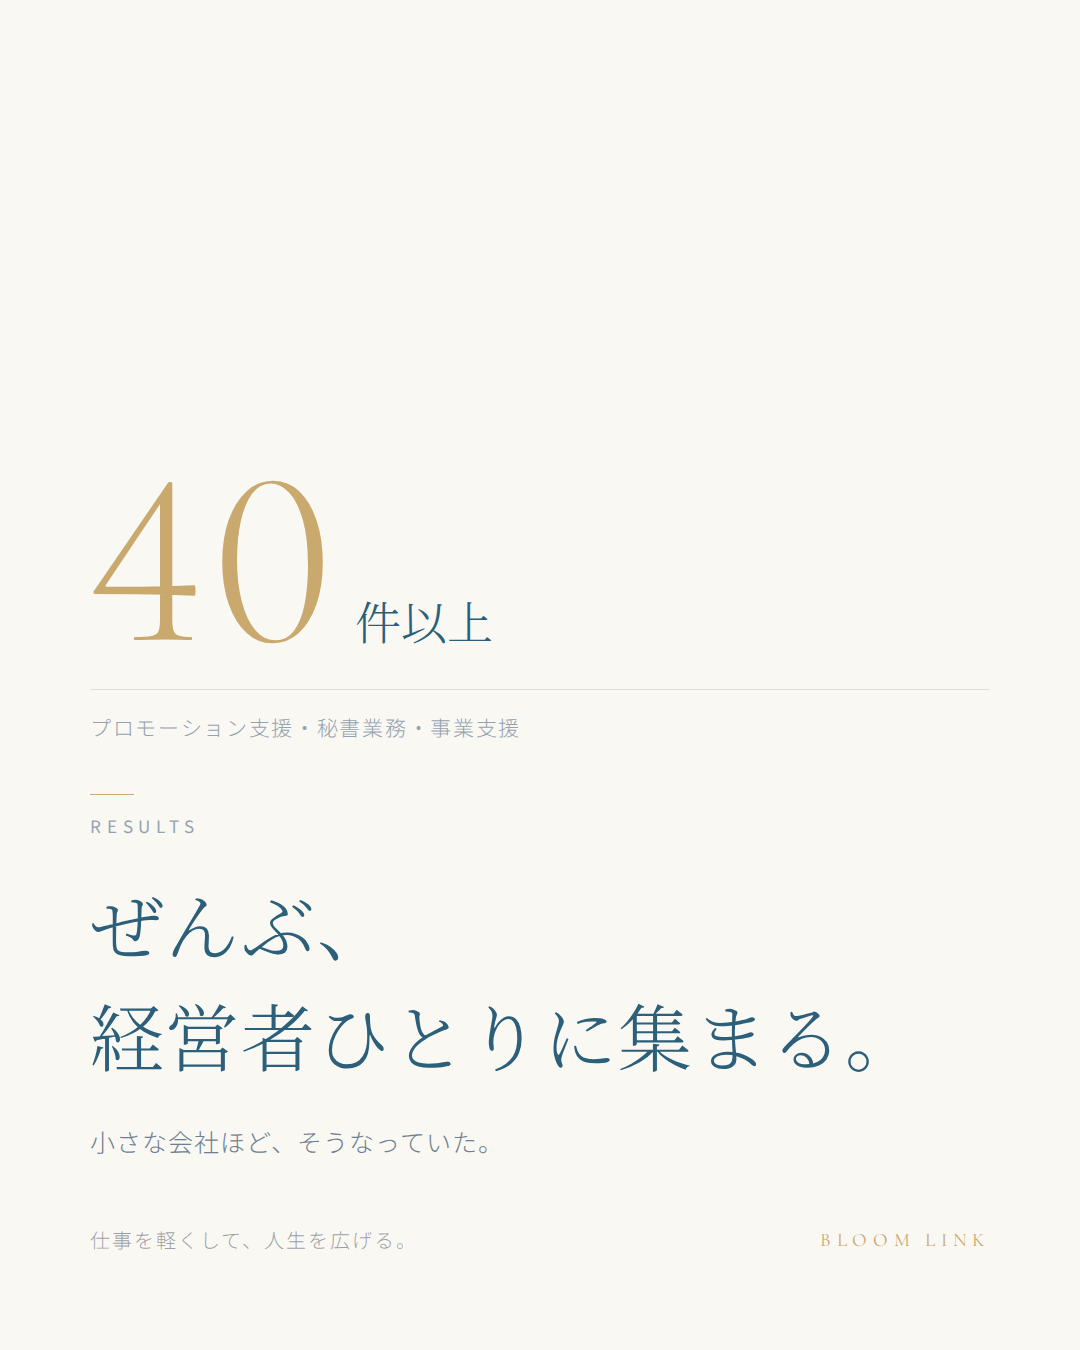
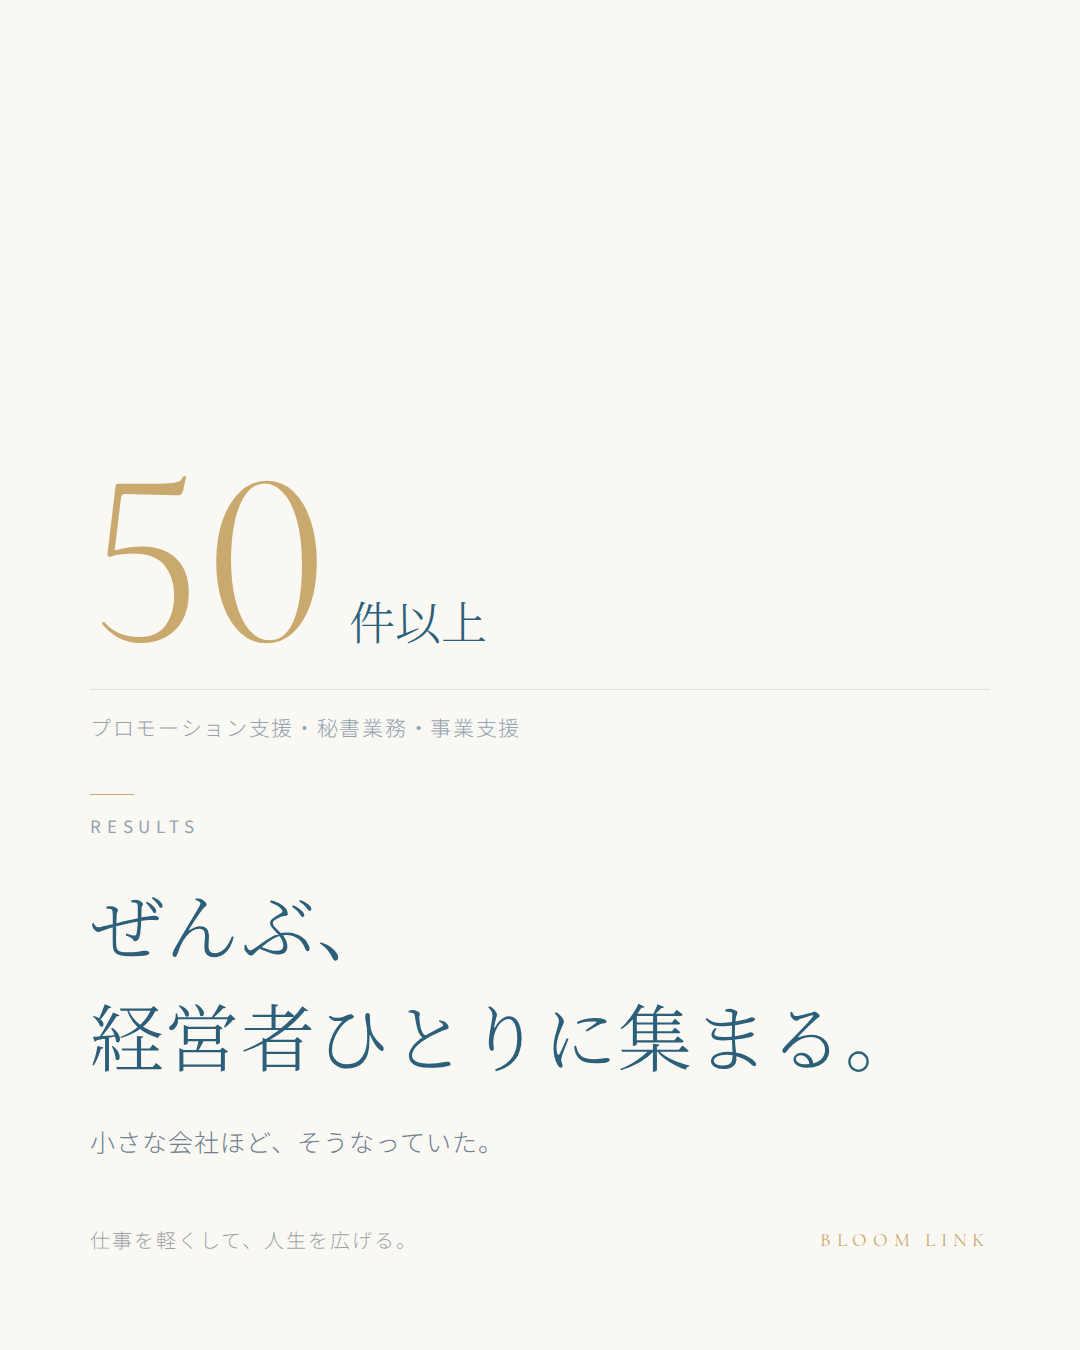
実績の件数を40件以上から50件以上に更新
4か所すべてを揃えた。
- 08の表紙の数字（statValue）
- 08の本文の見出し行と本文中
- 全9本の末尾に入る定型ブロック
- 引き継ぎ資料と引っ越しセット

「40代」「#40代の働き方」は別の数字なので触っていない（置換後に件数を検算した）。

Claude-Session: https://claude.ai/code/session_018TyEhHEDE4a9HFdLJk5hvJ

Changed region(s): [[0.0917, 0.3422, 0.275, 0.4978], [0.275, 0.3733, 0.4583, 0.4978]]

diff --git a/src/instagram9/posts.js b/src/instagram9/posts.js
@@ -29,7 +29,7 @@ export const PROFILE_FOOTER = `─────────────
 Rie｜${SERIES_TAGLINE}
 
 会社員22年（社長秘書・全社リスクマネジメント統括）
-→ オンライン秘書として40件以上の事業を支援
+→ オンライン秘書として50件以上の事業を支援
 → 経営者の業務整理・AI活用・仕組み化・チームづくり
 
 01〜09で、ひとつの物語になっています。`
@@ -392,16 +392,16 @@ ${PROFILE_FOOTER}`,
     photos: [],
     headline: ['ぜんぶ、', '経営者ひとりに集まる。'],
     sub: '小さな会社ほど、そうなっていた。',
-    statValue: '40',
+    statValue: '50',
     statUnit: '件以上',
     statLabel: 'プロモーション支援・秘書業務・事業支援',
     headlineSize: 74,
     role: '経験から現在の事業へ。数字だけの実績自慢にしない。',
     photoNote: '写真なし。数字を主役にしつつ、結論を見せる。',
-    caption: `08｜40件以上のサポートで見えてきたこと。
+    caption: `08｜50件以上のサポートで見えてきたこと。
 
 オンライン秘書として、そして事業支援として。
-これまで40件以上、経営者や起業家の仕事のそばで働いてきました。
+これまで50件以上、経営者や起業家の仕事のそばで働いてきました。
 
 そこで気づいたのは、
 これは私だけの問題じゃなかった、ということです。

diff --git a/docs/instagram-9-引っ越しセット.md b/docs/instagram-9-引っ越しセット.md
@@ -39,7 +39,7 @@ Rie。40代。
 
 - 約4万人規模のグローバル企業で会社員22年（社長秘書・全社リスクマネジメント統括）
 - その後オンラインで副業・起業。オンライン秘書として主婦や副業女性とチームをつくる
-- 40件以上のプロモーション支援・秘書業務・事業支援
+- 50件以上のプロモーション支援・秘書業務・事業支援
 - 経営者の妻としてレストラン経営を支える。子育て、家族のことも
 - 現在は企業・経営者・個人事業主へ、業務整理／AI活用／仕組み化／チームづくりを提供
 
@@ -214,7 +214,7 @@ Instagramのプロフィールは**新しい投稿が左上**に来ます。
 ### 08｜RESULTS
 - **見出し**「ぜんぶ、／ 経営者ひとりに集まる。」
 - **サブ**「小さな会社ほど、そうなっていた。」
-- **構成** 写真なし。くすみゴールドの大きな数字「**40**」＋「件以上」
+- **構成** 写真なし。くすみゴールドの大きな数字「**50**」＋「件以上」
   下に細い罫線と「プロモーション支援・秘書業務・事業支援」
 - **意図** 経験から現在の事業へ。**数字だけの実績自慢にしない。結論を見せる**
 

diff --git a/docs/instagram-9-posts.md b/docs/instagram-9-posts.md
@@ -314,7 +314,7 @@ npm run ig:photo public/travel/IMG_0237.jpeg uzbekistan-market.jpg
 Rie｜仕事を軽くして、人生を広げる。
 
 会社員22年（社長秘書・全社リスクマネジメント統括）
-→ オンライン秘書として40件以上の事業を支援
+→ オンライン秘書として50件以上の事業を支援
 → 経営者の業務整理・AI活用・仕組み化・チームづくり
 
 01〜09で、ひとつの物語になっています。
